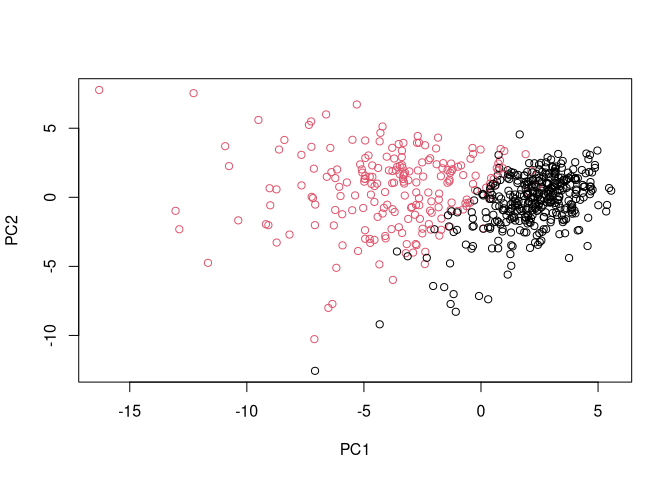
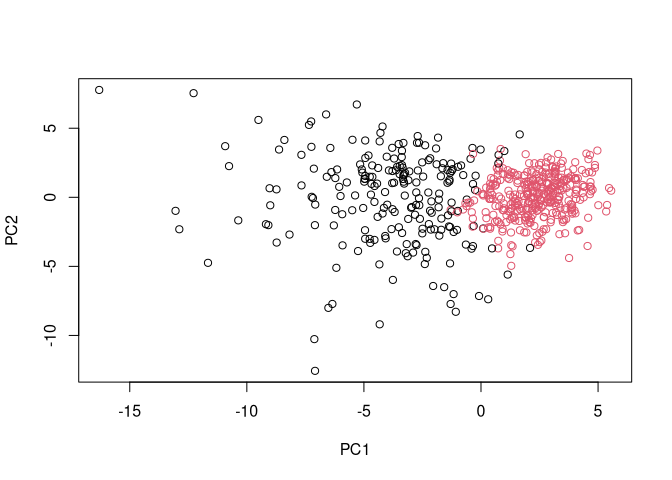
Assess two patients based on the model.

diff --git a/class_09-mini_project/lab_09-Reddan.md b/class_09-mini_project/lab_09-Reddan.md
@@ -352,19 +352,19 @@ abline(a= 19, b = 0,
 ![](lab_09-Reddan_files/figure-gfm/unnamed-chunk-26-1.png)<!-- -->
 
 ``` r
-wisconsin_hclust_clusters <- cutree(wisconsin_data_hclust, k = 4)
+wisconsin_hclust_clusters_k4 <- cutree(wisconsin_data_hclust, k = 4)
 ```
 
 ``` r
-table(wisconsin_hclust_clusters, diagnosis)
+table(wisconsin_hclust_clusters_k4, diagnosis)
 ```
 
-    ##                          diagnosis
-    ## wisconsin_hclust_clusters   B   M
-    ##                         1  12 165
-    ##                         2   2   5
-    ##                         3 343  40
-    ##                         4   0   2
+    ##                             diagnosis
+    ## wisconsin_hclust_clusters_k4   B   M
+    ##                            1  12 165
+    ##                            2   2   5
+    ##                            3 343  40
+    ##                            4   0   2
 
 > different number of clusters between 2 and 10?
 
@@ -468,25 +468,19 @@ table(wisconsin_kmeans$cluster, diagnosis)
 
     ##    diagnosis
     ##       B   M
-    ##   1 343  37
-    ##   2  14 175
+    ##   1  14 175
+    ##   2 343  37
 
 ``` r
-table(wisconsin_hclust_clusters, wisconsin_kmeans$cluster)
+table(wisconsin_hclust_clusters_k4, wisconsin_kmeans$cluster)
 ```
 
-    ##                          
-    ## wisconsin_hclust_clusters   1   2
-    ##                        1   17  81
-    ##                        2    0  59
-    ##                        3    0   3
-    ##                        4  358  12
-    ##                        5    0  20
-    ##                        6    0   2
-    ##                        7    5   7
-    ##                        8    0   2
-    ##                        9    0   2
-    ##                        10   0   1
+    ##                             
+    ## wisconsin_hclust_clusters_k4   1   2
+    ##                            1 160  17
+    ##                            2   7   0
+    ##                            3  20 363
+    ##                            4   2   0
 
 # Combining Methods
 
@@ -512,17 +506,25 @@ table(groups, diagnosis)
     ##      1  28 188
     ##      2 329  24
 
+**Accuracy**
+
+``` r
+(188 + 329)/(length(diagnosis))
+```
+
+    ## [1] 0.9086116
+
 ``` r
 plot(wisconsin_pca$x[,1:2], col=groups)
 ```
 
-![](lab_09-Reddan_files/figure-gfm/unnamed-chunk-36-1.png)<!-- -->
+![](lab_09-Reddan_files/figure-gfm/unnamed-chunk-37-1.png)<!-- -->
 
 ``` r
 plot(wisconsin_pca$x[,1:2], col=diagnosis)
 ```
 
-![](lab_09-Reddan_files/figure-gfm/unnamed-chunk-37-1.png)<!-- -->
+![](lab_09-Reddan_files/figure-gfm/unnamed-chunk-38-1.png)<!-- -->
 
 ``` r
 re_group <- as.factor(groups)
@@ -542,7 +544,7 @@ levels(re_group)
 plot(wisconsin_pca$x[,1:2], col=re_group)
 ```
 
-![](lab_09-Reddan_files/figure-gfm/unnamed-chunk-39-1.png)<!-- -->
+![](lab_09-Reddan_files/figure-gfm/unnamed-chunk-40-1.png)<!-- -->
 
 ``` r
 plot3d(wisconsin_pca$x[,1:3], 
@@ -559,7 +561,7 @@ rglwidget(width = 400, height = 400)
     ## Warning in snapshot3d(scene = x, width = width, height = height): webshot = TRUE
     ## requires the webshot2 package; using rgl.snapshot() instead
 
-![](/tmp/RtmppWKI9x/file4ab74b04102.png)<!-- -->
+![](/tmp/RtmpBr6qVO/file5c0712f765ef.png)<!-- -->
 
 ``` r
 table(wisconsin_kmeans$cluster, diagnosis)
@@ -567,22 +569,149 @@ table(wisconsin_kmeans$cluster, diagnosis)
 
     ##    diagnosis
     ##       B   M
-    ##   1 343  37
-    ##   2  14 175
+    ##   1  14 175
+    ##   2 343  37
 
 ``` r
-table(wisconsin_hclust_clusters, diagnosis)
+table(wisconsin_hclust_clusters_k4, diagnosis)
 ```
 
-    ##                          diagnosis
-    ## wisconsin_hclust_clusters   B   M
-    ##                        1   12  86
-    ##                        2    0  59
-    ##                        3    0   3
-    ##                        4  331  39
-    ##                        5    0  20
-    ##                        6    2   0
-    ##                        7   12   0
-    ##                        8    0   2
-    ##                        9    0   2
-    ##                        10   0   1
+    ##                             diagnosis
+    ## wisconsin_hclust_clusters_k4   B   M
+    ##                            1  12 165
+    ##                            2   2   5
+    ##                            3 343  40
+    ##                            4   0   2
+
+# Sensitivity and Specifity
+
+**Sensitivity**  
+hclust-pca:
+
+``` r
+165/(165 + 47)
+```
+
+    ## [1] 0.7783019
+
+hclust-no_pca:
+
+``` r
+2/(2+210)
+```
+
+    ## [1] 0.009433962
+
+kmeans-no_pca:
+
+``` r
+175/(175+37)
+```
+
+    ## [1] 0.8254717
+
+**Specificity**  
+hclust-pca:
+
+``` r
+351/(351+47)
+```
+
+    ## [1] 0.8819095
+
+hclust-no_pca:
+
+``` r
+357/(357+210)
+```
+
+    ## [1] 0.6296296
+
+kmeans-no_pca:
+
+``` r
+343/(343+37)
+```
+
+    ## [1] 0.9026316
+
+# Prediction
+
+``` r
+#url <- "new_samples.csv"
+url <- "https://tinyurl.com/new-samples-CSV"
+new <- read.csv(url)
+npc <- predict(wisconsin_pca, newdata=new)
+npc
+```
+
+    ##            PC1       PC2        PC3        PC4       PC5        PC6        PC7
+    ## [1,]  2.576616 -3.135913  1.3990492 -0.7631950  2.781648 -0.8150185 -0.3959098
+    ## [2,] -4.754928 -3.009033 -0.1660946 -0.6052952 -1.140698 -1.2189945  0.8193031
+    ##             PC8       PC9       PC10      PC11      PC12      PC13     PC14
+    ## [1,] -0.2307350 0.1029569 -0.9272861 0.3411457  0.375921 0.1610764 1.187882
+    ## [2,] -0.3307423 0.5281896 -0.4855301 0.7173233 -1.185917 0.5893856 0.303029
+    ##           PC15       PC16        PC17        PC18        PC19       PC20
+    ## [1,] 0.3216974 -0.1743616 -0.07875393 -0.11207028 -0.08802955 -0.2495216
+    ## [2,] 0.1299153  0.1448061 -0.40509706  0.06565549  0.25591230 -0.4289500
+    ##            PC21       PC22       PC23       PC24        PC25         PC26
+    ## [1,]  0.1228233 0.09358453 0.08347651  0.1223396  0.02124121  0.078884581
+    ## [2,] -0.1224776 0.01732146 0.06316631 -0.2338618 -0.20755948 -0.009833238
+    ##              PC27        PC28         PC29         PC30
+    ## [1,]  0.220199544 -0.02946023 -0.015620933  0.005269029
+    ## [2,] -0.001134152  0.09638361  0.002795349 -0.019015820
+
+``` r
+plot(wisconsin_pca$x[,1:2], col=groups)
+points(npc[,1], npc[,2], col="blue", pch=16, cex=3)
+text(npc[,1], npc[,2], c(1,2), col="white")
+```
+
+![](lab_09-Reddan_files/figure-gfm/unnamed-chunk-51-1.png)<!-- -->
+
+# Session Information
+
+``` r
+sessionInfo()
+```
+
+    ## R version 4.1.1 (2021-08-10)
+    ## Platform: x86_64-pc-linux-gnu (64-bit)
+    ## Running under: Arch Linux
+    ## 
+    ## Matrix products: default
+    ## BLAS:   /usr/lib/libblas.so.3.10.0
+    ## LAPACK: /usr/lib/liblapack.so.3.10.0
+    ## 
+    ## locale:
+    ##  [1] LC_CTYPE=en_US.UTF-8       LC_NUMERIC=C              
+    ##  [3] LC_TIME=en_US.UTF-8        LC_COLLATE=en_US.UTF-8    
+    ##  [5] LC_MONETARY=en_US.UTF-8    LC_MESSAGES=en_US.UTF-8   
+    ##  [7] LC_PAPER=en_US.UTF-8       LC_NAME=C                 
+    ##  [9] LC_ADDRESS=C               LC_TELEPHONE=C            
+    ## [11] LC_MEASUREMENT=en_US.UTF-8 LC_IDENTIFICATION=C       
+    ## 
+    ## attached base packages:
+    ## [1] stats     graphics  grDevices utils     datasets  methods   base     
+    ## 
+    ## other attached packages:
+    ## [1] rgl_0.107.14     factoextra_1.0.7 ggplot2_3.3.5   
+    ## 
+    ## loaded via a namespace (and not attached):
+    ##  [1] tidyselect_1.1.1  xfun_0.24         purrr_0.3.4       haven_2.4.1      
+    ##  [5] carData_3.0-4     colorspace_2.0-2  vctrs_0.3.8       generics_0.1.0   
+    ##  [9] htmltools_0.5.1.1 yaml_2.2.1        utf8_1.2.1        rlang_0.4.11     
+    ## [13] pillar_1.6.1      ggpubr_0.4.0      foreign_0.8-81    glue_1.4.2       
+    ## [17] withr_2.4.2       DBI_1.1.1         readxl_1.3.1      lifecycle_1.0.0  
+    ## [21] stringr_1.4.0     cellranger_1.1.0  munsell_0.5.0     ggsignif_0.6.3   
+    ## [25] gtable_0.3.0      zip_2.2.0         htmlwidgets_1.5.4 evaluate_0.14    
+    ## [29] forcats_0.5.1     rio_0.5.27        labeling_0.4.2    knitr_1.33       
+    ## [33] extrafont_0.17    curl_4.3.2        fansi_0.5.0       Rttf2pt1_1.3.8   
+    ## [37] highr_0.9         broom_0.7.8       Rcpp_1.0.7        scales_1.1.1     
+    ## [41] backports_1.2.1   jsonlite_1.7.2    abind_1.4-5       farver_2.1.0     
+    ## [45] hms_1.1.0         digest_0.6.27     openxlsx_4.2.4    stringi_1.7.2    
+    ## [49] rstatix_0.7.0     dplyr_1.0.7       ggrepel_0.9.1     grid_4.1.1       
+    ## [53] tools_4.1.1       magrittr_2.0.1    tibble_3.1.2      crayon_1.4.1     
+    ## [57] extrafontdb_1.0   tidyr_1.1.3       car_3.0-11        pkgconfig_2.0.3  
+    ## [61] ellipsis_0.3.2    data.table_1.14.0 assertthat_0.2.1  rmarkdown_2.11   
+    ## [65] R6_2.5.0          compiler_4.1.1
